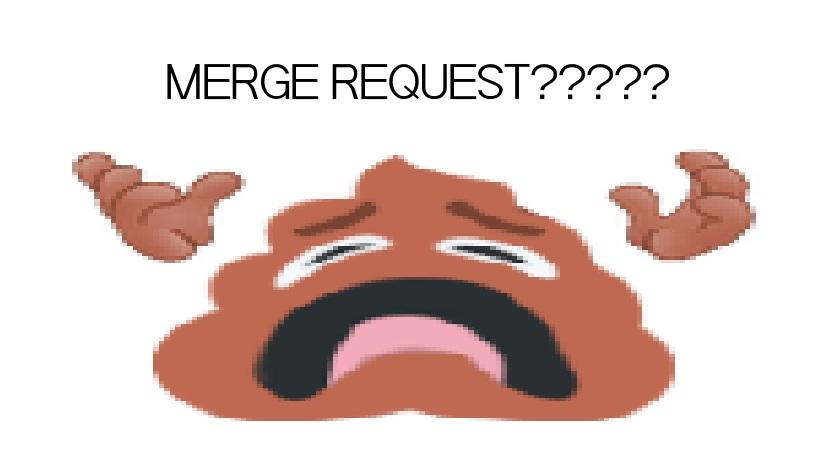
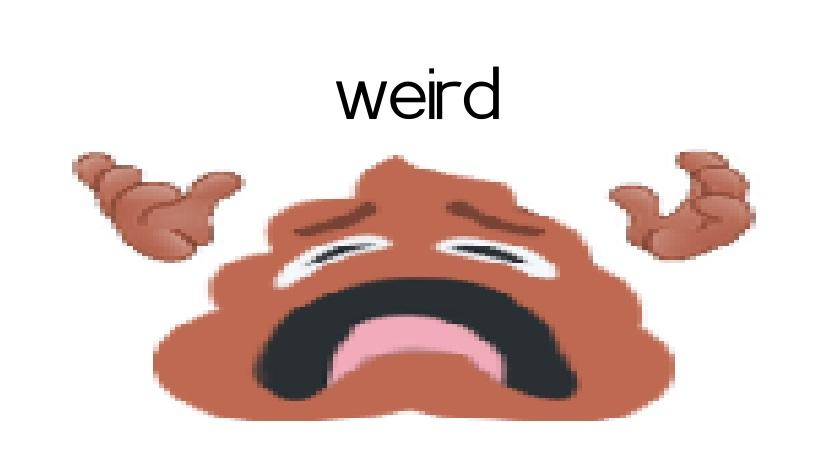
bigger font size

Changed region(s): [[0.1871, 0.1184, 0.8106, 0.2664]]

diff --git a/createImage.py b/createImage.py
@@ -8,11 +8,11 @@ def createImage(messageText):
     draw = ImageDraw.Draw(img)
 
     width, height = img.size 
-    font = ImageFont.truetype("POE Sans Pro Light.ttf", 50)
+    font = ImageFont.truetype("POE Sans Pro Light.ttf", 75)
 
     textwidth, textheight = draw.textsize(messageText, font=font)
     x = width/2 - textwidth/2
-    y = height/8 - textheight/8
+    y = height/9 - textheight/9
     
     draw.text((x, y), messageText, (0,0,0),font=font)
 
